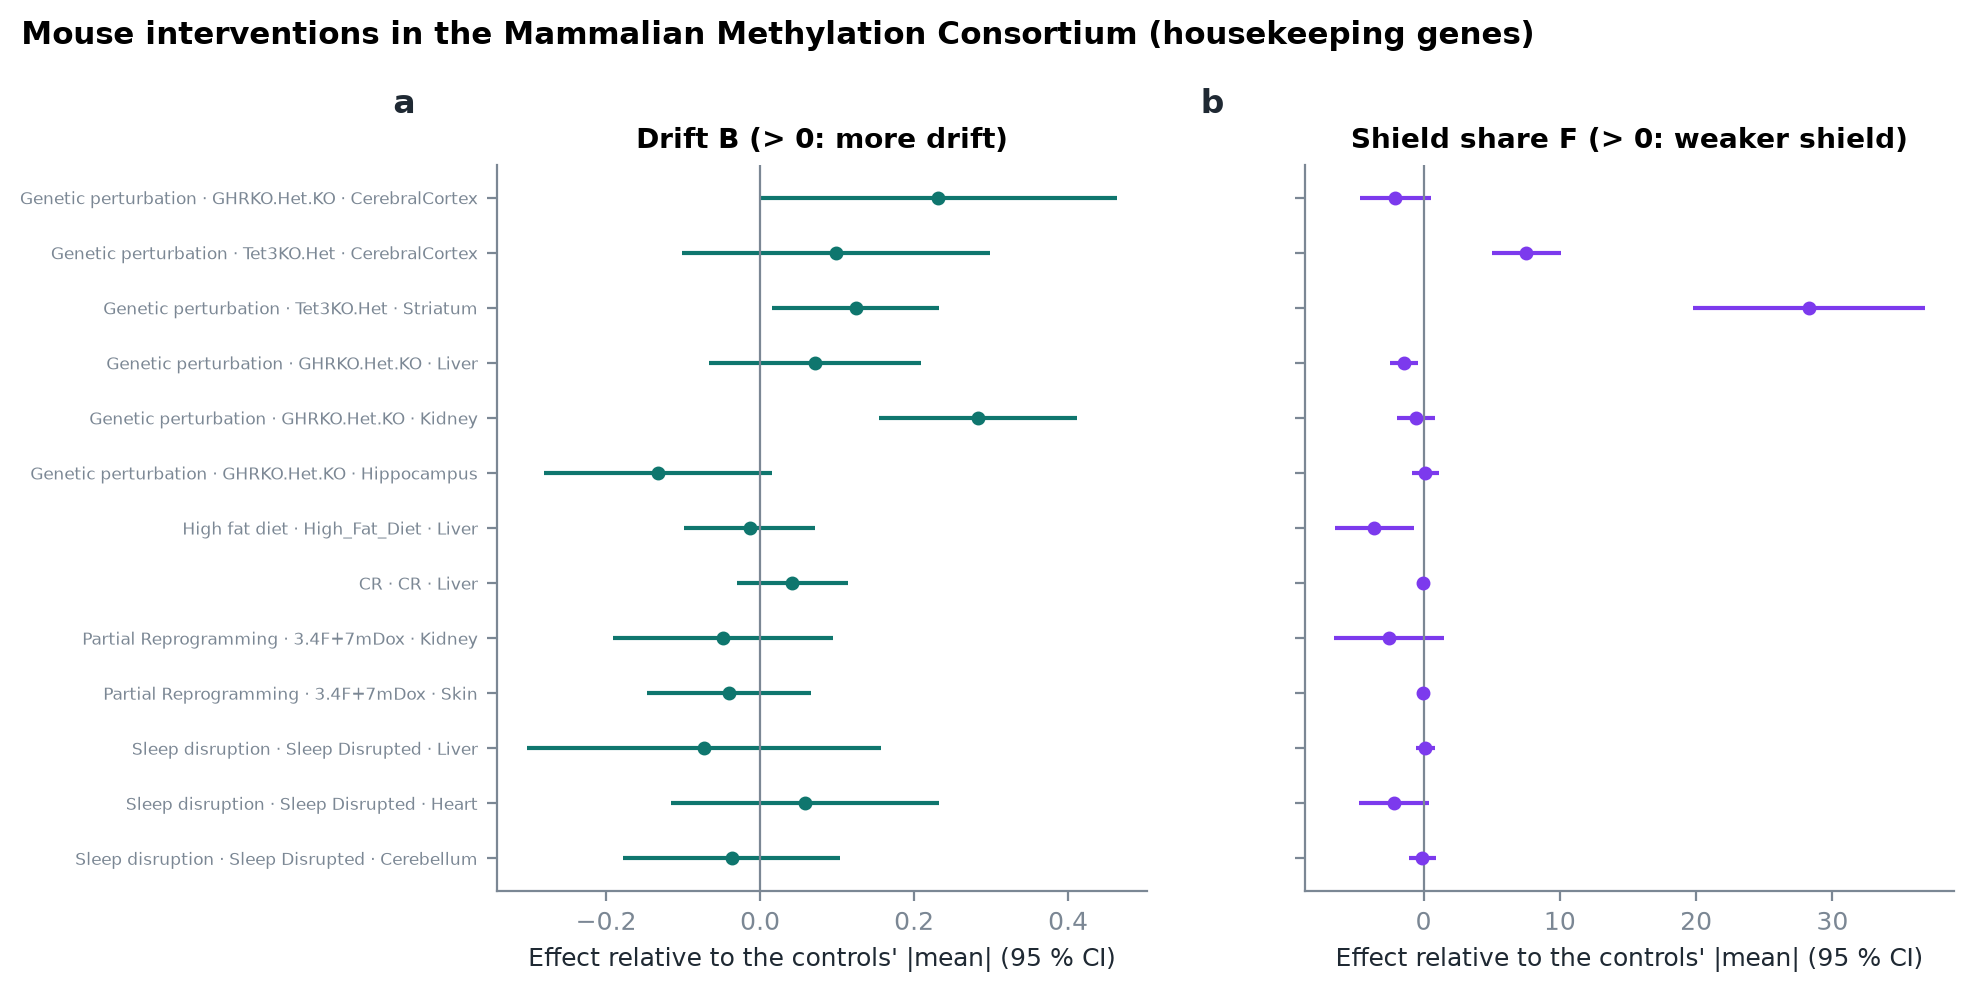
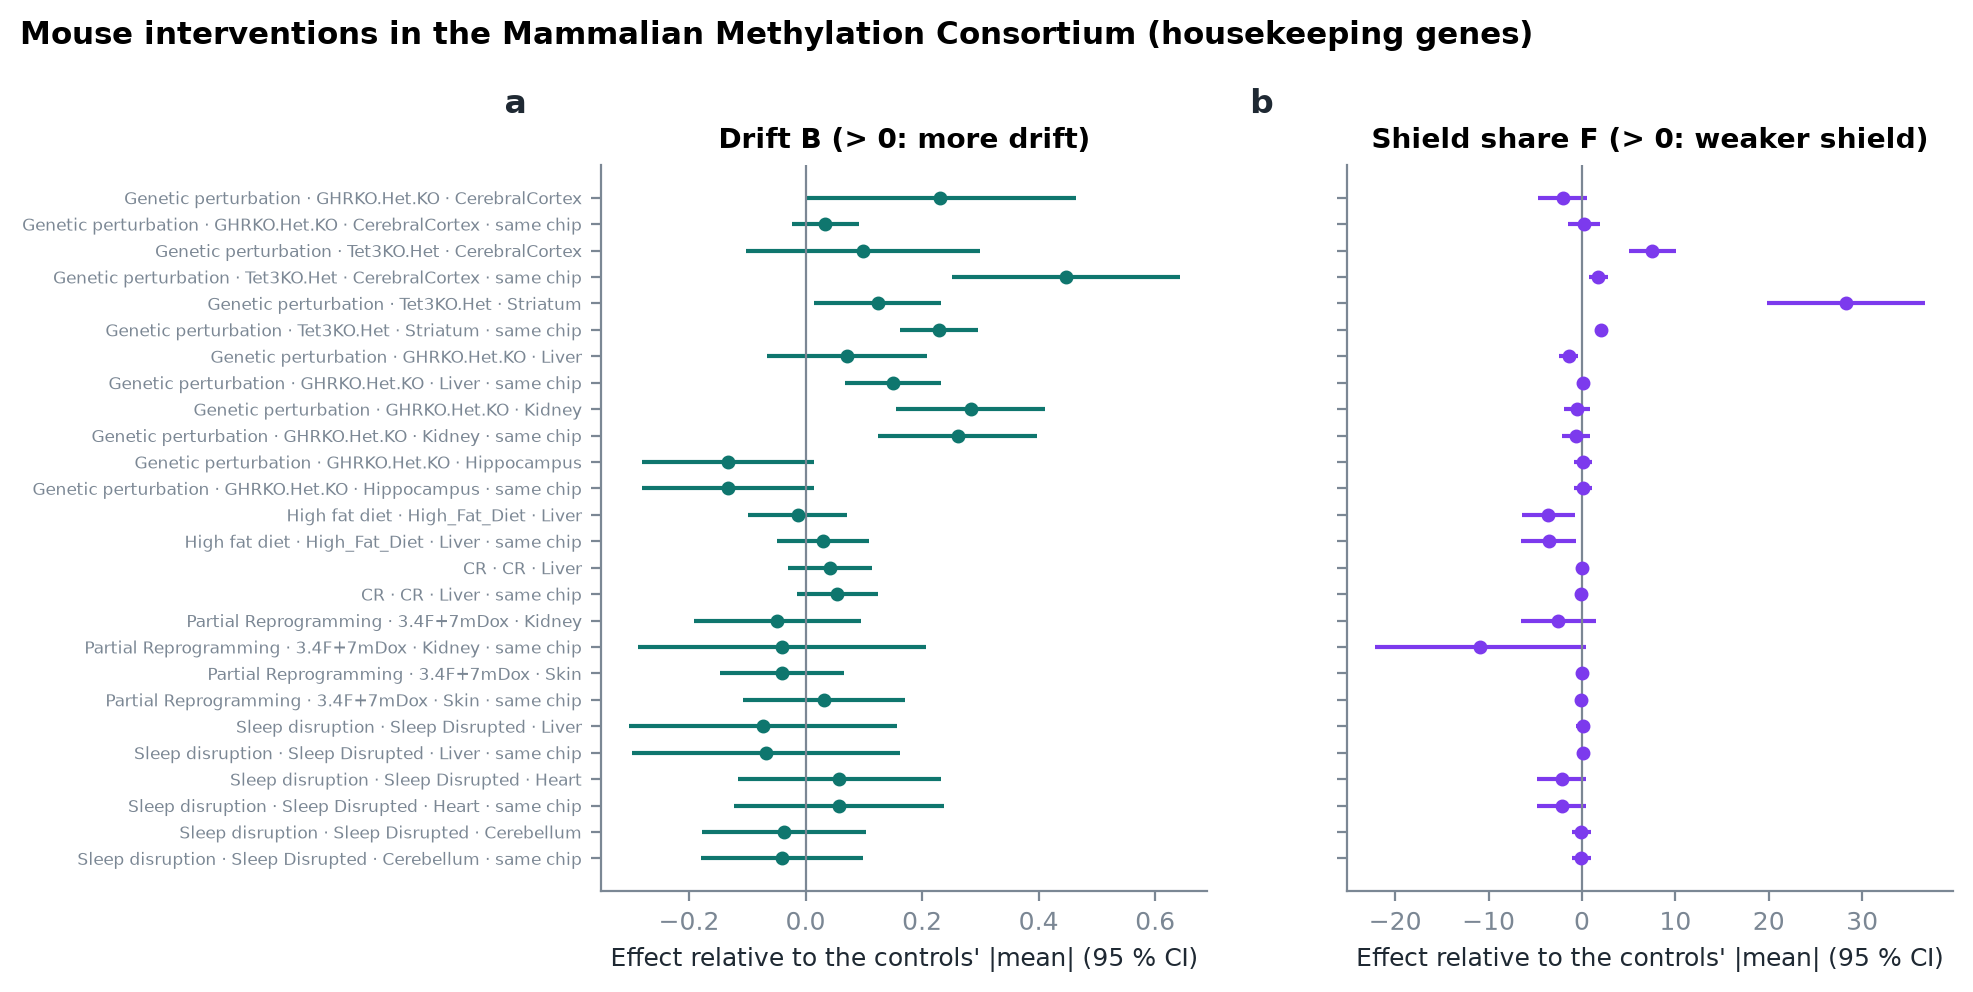
RM12: Tet3 heterozygous brains lose the shield against their littermates
Against same-chip, same-age wild types the loss holds and grows; the
GHRKO liver effect was batch. R15 done.

Seat: entropy-age/lead
Claude-Session: https://claude.ai/code/session_01TJzjgJACUvbS1joxbZrgzk

diff --git a/docs/PAPER_DRAFT.md b/docs/PAPER_DRAFT.md
@@ -31,7 +31,7 @@ We tested three explanations.
 
 In living mice the shield's share grows with age in blood and in slowly renewing liver alike. Caloric
 restriction weakens it in one blood series but not in liver. Mice missing one copy of the demethylase Tet3
-lose it in brain. Across 65 mammal species the shield is nearly universal, and not stronger in long-lived ones.
+lose it in brain, against their own littermates. Across 65 mammal species the shield is nearly universal, and not stronger in long-lived ones.
 
 Published clocks draw on CpGs whose chromatin differs between tissues, Polycomb targets above all.
 Clocks built from Polycomb CpGs alone misread other tissues by a constant, calibratable offset. A
@@ -106,8 +106,10 @@ lifespan scaling as stem-cell dynamics (Crofts 2026), and per-person drift burde
   **[weak]**: 22 mice, one strain; the C57BL/6 comparison crosses series and is not read.
 - CR in liver (GSE223748, 59 against 36 mice) leaves it unchanged (F −0.008, p 0.77): the blood result is not
   replicated in a slowly renewing tissue. **[weak]** either way.
-- Tet3 heterozygous cortex and striatum lose the shield (F +0.16, +0.13, p < 10⁻⁶, 8 mice each). **[weak]**:
-  controls pooled across studies, all treated mice six months old. **[missing]** the study's own controls.
+- Tet3 heterozygous cortex and striatum lose the shield against same-chip, same-age littermates (housekeeping F
+  +0.17, +0.25; core-essential +0.31, +0.49; 8 against 8). **[weak → solid within one study]**: one study, 16
+  mice per tissue. **[missing]** the direction (gain of methylation?) and a second Tet or Dnmt model.
+- GHRKO liver's apparent strengthening was batch (gone against same-chip controls).
 - **Missing:** a second CR or rapamycin series sequenced with its controls; sorted stem cells.
 - **Interpretation open:** growth in liver argues against stem-cell selection as its cause.
 - **Figures:** interventions, bxd_liver (being redrawn with corrected intervals).
@@ -151,8 +153,8 @@ lifespan scaling as stem-cell dynamics (Crofts 2026), and per-person drift burde
 
 ## 4 What the paper still needs, in order
 
-1. **The Tet3 study's own controls**: if the loss holds against littermates, the paper has its first causal
-   result.
+1. **Tet3, second step**: the direction of change at essential CpGs, and a second Tet or Dnmt model (the loss holds
+   against littermates, R15).
 2. **Replication of the CR effect** in a second within-batch blood series (liver did not replicate it).
 3. **Test-retest of the per-person score** on replicate arrays (public technical replicates exist on GEO).
 4. **A causal chromatin test**, from public natural experiments first (RM14: chromatin-writer syndromes in blood,

diff --git a/docs/extension.md b/docs/extension.md
@@ -605,11 +605,18 @@ controls (controls leave one out), at least 5 animals per arm.
 * **CR does not weaken the shield in liver** (59 against 36 mice). The weakening in mouse blood (one study) is not
   replicated in a slowly renewing tissue. That is what selection would predict, but it is also what a batch effect
   in the blood study would give; it stays open.
-* **Mice missing one copy of Tet3 lose the shield in brain.** Tet3 is a DNA demethylase active in neurons. If real,
-  this is a first causal sign: weaken the maintenance machinery and essential promoters drift like any other CpG,
-  in a tissue whose cells do not divide (so not selection). But the controls are the wild-type mice pooled across
-  the consortium's genetic-perturbation studies, not necessarily Tet3's littermates, and all eight Tet3 mice are
-  six months old. A study batch could produce the same. It needs the Tet3 study's own controls.
+* **Mice missing one copy of Tet3 lose the shield in brain, against their own littermates.** Tet3 is a DNA
+  demethylase active in neurons. The pooled controls were the wild types of several knockouts; but the Tet3 mice
+  share their array chips with eight wild types of the same age, their littermate controls. Against those, with
+  the chip as a covariate (run R15), the shield share rises by +0.17 (cortex, p 0.006) and +0.25 (striatum,
+  p 9·10⁻⁶) for housekeeping genes, +0.31 and +0.49 for core-essential genes (8 against 8 each). Drift at
+  look-alike CpGs rises only slightly (B +0.007, +0.003). Neurons do not divide, so selection cannot do this:
+  halving a demethylase lets essential promoters drift like any other CpG. This is the first causal sign that the
+  shield is maintained by the methylation machinery (H1). Open: whether essential CpGs gain methylation (TET
+  keeps island promoters unmethylated) or merely scatter; one study, 16 mice.
+* **The GHRKO liver effect was batch.** Against same-chip controls it vanishes (+0.01, p 0.67); the pooled
+  controls carried it. CR in liver against the same controls: housekeeping −0.02 (p 0.59), core-essential −0.07
+  (p 0.005), a slightly *stronger* shield if anything.
 
 Tables: `data/output/mmc_interventions/` (`effects`, `animal_scores`).
 

diff --git a/docs/ROADMAP.md b/docs/ROADMAP.md
@@ -22,8 +22,9 @@ to composition), without slowing drift; the shield's share also grows with age i
 neither proof nor disproof. Tests that would separate selection from chromatin, in order of cost:
 - Done (R13, `docs/extension.md`): CR in liver does not weaken the shield; Tet3 heterozygous mice lose it in
   cortex and striatum (controls pooled across studies, a batch could do it); GHRKO strengthens it in liver.
-- Next: the Tet3 study's own controls (sample titles or the consortium's folder field), then the shield with
-  chromatin held fixed under CR.
+- Done (R15): against same-chip littermates the Tet3 loss holds and grows (housekeeping F +0.17, +0.25); the GHRKO
+  liver effect was batch.
+- Next: the direction at essential CpGs under Tet3 loss (gain of methylation or scatter), then RM14's syndromes.
 - **The same intervention in a renewing and a non-renewing tissue of the same animals.** Selection predicts CR
   or rapamycin changes the shield in blood or gut and not in brain or muscle; chromatin predicts the same change
   (or none) everywhere. Search for a multi-tissue CR or rapamycin series with at least 8 animals per arm.

diff --git a/docs/CHANGELOG.md b/docs/CHANGELOG.md
@@ -4,6 +4,7 @@ Newest first.
 
 ## Unreleased
 
+- R15 done: against same-chip littermates the Tet3 heterozygous brains lose the shield more clearly (housekeeping F +0.17, +0.25); the GHRKO liver effect was batch. `docs/extension.md`.
 - `figures mmc_interventions` also scores each arm against only the controls on its own array chips, with the chip as a covariate (`controls` column): littermate controls where a study shares chips, which a batch cannot separate.
 - R12 and R13 done. Across 65 mammal species the shield is nearly universal and not stronger in long-lived species. CR does not weaken it in mouse liver. Tet3 heterozygous mice lose it in brain, a causal lead whose controls are pooled across studies. RM10 leaves the roadmap. `docs/extension.md`.
 - R14 done (41 s): RM15, SvenDP's question. Aging methylation is not all stochastic: in blood, solo-WCGW CpGs lose methylation 2.7 times as fast as other open-sea CpGs (−0.21 against −0.08 points per decade), a directed, division-linked loss absent in cortex; the PCA does not single it out. `docs/extension.md`.

diff --git a/docs/RUN_LOG.md b/docs/RUN_LOG.md
@@ -3,6 +3,14 @@
 Owned by the runner seat (`docs/seats/RUNNER.md`): one entry per run, newest first, with its inputs, the
 commit it ran, its job ids, its scale and seed, and its result or its failure with the cause.
 
+## R15 — interventions against same-chip controls (RM12), 2026-11-11
+
+- Commit 0cb79ae; `figures mmc_interventions --scale paper --seed 42`; 8 cores, 16 GB.
+- Job 6430322 completed in 73 s, 3.5 GB at peak. Same-chip controls exist for 13 arms; partial reprogramming
+  has too few.
+- Result, as measured (housekeeping F, same-chip): Tet3 heterozygous cortex +0.17 (p 0.006), striatum +0.25
+  (p 9·10⁻⁶), 8 against 8; GHRKO liver +0.01 (p 0.67). The lead's reading is in `docs/extension.md`.
+
 ## R12 — shielding across mammals (RM10), 2026-11-11
 
 - Commit fa6a796; `fetch mammals` (4.5 GB, 4.7 min) then `figures species --scale paper --seed 42`; 8 cores, 64 GB.

diff --git a/docs/RUN_STATUS.md b/docs/RUN_STATUS.md
@@ -3,7 +3,7 @@
 Owned by the runner seat (`docs/seats/RUNNER.md`): what runs now, what is next, what waits on whom. Times
 are the scheduler's clock.
 
-Nothing runs and nothing is planned. R14, R13, R12 and R11 finished 2026-11-11; R9 (BXD liver), R8 and R7 (interventions) finished 2026-11-11; R6 (clocks from protected CpGs), R5 (published clocks) and R4 (sorted
+Nothing runs and nothing is planned. R15, R14, R13, R12 and R11 finished 2026-11-11; R9 (BXD liver), R8 and R7 (interventions) finished 2026-11-11; R6 (clocks from protected CpGs), R5 (published clocks) and R4 (sorted
 brain chromatin) finished 2026-11-11; R3 (the chromatin-matched gap) and R2 (the per-person score)
 finished 2026-11-11, R1 (GSE179847) 2026-11-10
 (`docs/RUN_LOG.md`).

diff --git a/docs/RUNS.md b/docs/RUNS.md
@@ -12,9 +12,4 @@ grammar (`unattended`, `urgent`, `building`, `after <R-id>` or `after job <slurm
 - the roadmap item it serves (`RMn`);
 - what the lead needs back (a table, a figure, a number), and anything the run must not do.
 
-## R15 — interventions against same-chip controls (RM12)
-
-- What: `entropy-age figures mmc_interventions --scale paper --seed 42`, on R12's download, after the same-chip
-  control mode; replaces R13's tables and figure (the pooled rows are recomputed alike).
-- Resources: compute partition, 8 cores, 16 GB (R13 peaked at 3.5 GB), a few minutes.
-- Read: the `same_chip` rows of `data/output/mmc_interventions/effects.csv`, Tet3 first.
+No runs are planned.
